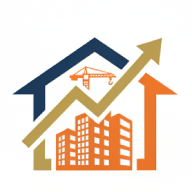
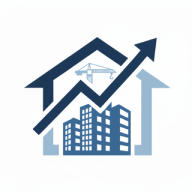
updated

diff --git a/css/style.css b/css/style.css
@@ -122,20 +122,15 @@ body {
   background-color: var(--border-color);
   color: var(--text-primary);
 }
-.install-btn {
-  background-color: rgba(128, 128, 128, 0.435);
-  color: white
-  padding: 0.5rem 0.5rem;
-  border-radius: var(--border-radius-lg);
-  font-weight: 100;
-  gap: 0.5rem;
+/* Hero section */
+.hero-section {
+  text-align: center;
+  margin: 10px;
+  padding: 5px;
 }
-.install-btn:hover {
-  background-color: var(--brand-color-hover);
-  color: white;
-}
-.install-text {
-  font-size: 0.8rem;
+.hero-section span {
+  font-weight: 600;
+  color: var(--brand-color-hover);
 }
 .app-footer {
   position: fixed; /* Changed for native feel */
@@ -234,7 +229,6 @@ body {
   border: 1px solid var(--border-color);
 }
 .category-card:hover {
-
   transform: translateY(-5px);
   box-shadow: var(--shadow-md);
 }

diff --git a/js/app.js b/js/app.js
@@ -26,7 +26,14 @@ document.addEventListener("DOMContentLoaded", () => {
   const app = {
     templates: {
       home: `
-               
+              <div class="hero-section">
+        <p>Your Dream Home, Budgeted Perfectly.</p>
+        <p>
+          <span>Stop guessing, start planning</span>. "Dream Home Calculator"
+          provides transparent, detailed cost estimates for every stage of your
+          home construction project.
+        </p>
+      </div>
              
                 <div class="calculator-grid">
                     <a class="category-card calculator-link" href="#" data-page="houseConstruction">

diff --git a/index.html b/index.html
@@ -24,7 +24,7 @@
       <header class="app-header">
         <div class="container">
           <div class="header-content">
-            <img src="./images/icon-192x192.png" width="45" alt="" />
+            <img src="./images/logo-brand.png" width="60" alt="" />
             <h3><span>Dream</span> Home Calculator</h3>
             <div class="header-actions">
               <button id="theme-switcher" class="icon-btn">
